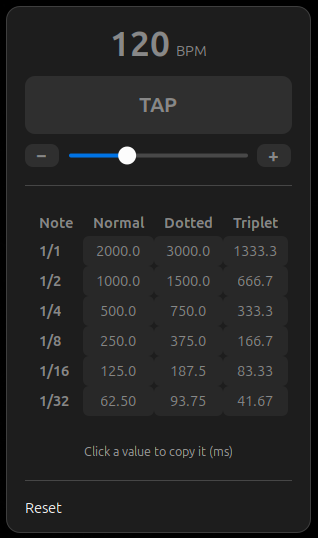
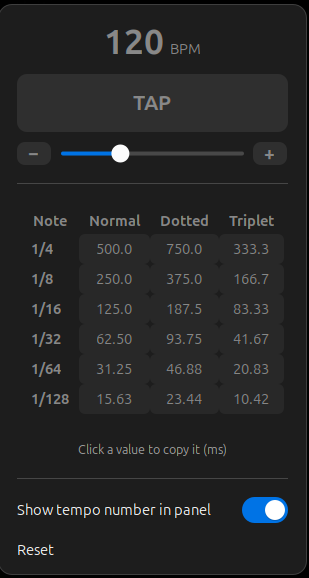
1/4->1/128

diff --git a/src/extension.js b/src/extension.js
@@ -21,12 +21,12 @@ const MAX_INTERVALS = 8;
 // Note divisions, expressed as a multiplier of the quarter-note duration.
 // quarter = 60000 / BPM ms.
 const DIVISIONS = [
-    {label: '1/1',  factor: 4},
-    {label: '1/2',  factor: 2},
-    {label: '1/4',  factor: 1},
-    {label: '1/8',  factor: 0.5},
-    {label: '1/16', factor: 0.25},
-    {label: '1/32', factor: 0.125},
+    {label: '1/4',   factor: 1},
+    {label: '1/8',   factor: 0.5},
+    {label: '1/16',  factor: 0.25},
+    {label: '1/32',  factor: 0.125},
+    {label: '1/64',  factor: 0.0625},
+    {label: '1/128', factor: 0.03125},
 ];
 
 const VARIANTS = [